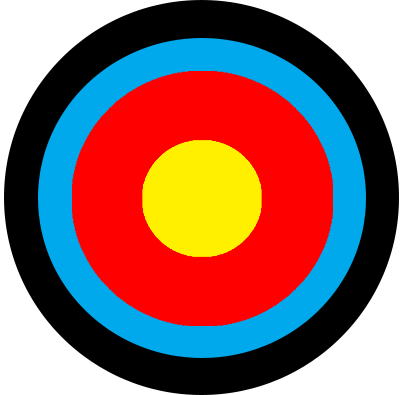
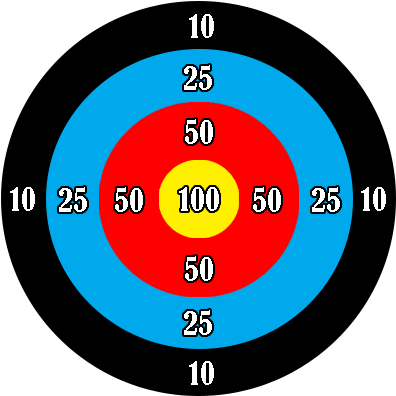
-zmena terca a pozadia

diff --git a/src/main/java/com/bunca/controllers/StrelbaNaTercController.java b/src/main/java/com/bunca/controllers/StrelbaNaTercController.java
@@ -92,8 +92,8 @@ public class StrelbaNaTercController implements Initializable {
         Image crosshairred = new Image(getClass().getResource("/images/crosshairred.png").toString());
         mediaPlayer = new MediaPlayer(new Media(getClass().getResource("/sounds/strela.mp3").toString()));
         System.out.println("[Terc] X:" + (terc.getLayoutX() + terc.getFitWidth() / 2) + " Y: " + (terc.getLayoutY() + terc.getFitHeight() / 2));
-        double tercX = terc.getLayoutX() + terc.getFitWidth() / 2;
-        double tercY = terc.getLayoutY() + terc.getFitHeight() / 2;
+        double tercX = terc.getLayoutX() + (terc.getFitWidth() / 2);
+        double tercY = terc.getLayoutY() + (terc.getFitHeight() / 2);
 
         playAreaPane.setOnMouseClicked(new EventHandler<MouseEvent>() {
             @Override
@@ -191,6 +191,9 @@ public class StrelbaNaTercController implements Initializable {
         hole.setCenterY(strelaY);
         playAreaPane.getChildren().add(hole);
         hole.setFill(Paint.valueOf("white"));
+
+        System.out.println(distance);
+
         if (distance <= 64) {
             score += 30;
             infoLabel.setText("Trafil si zltu.");
